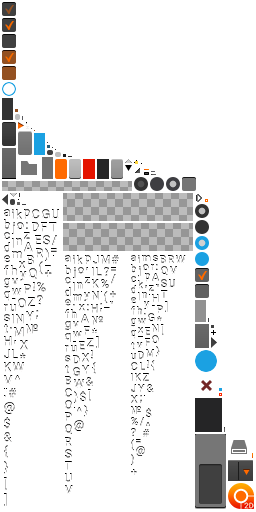
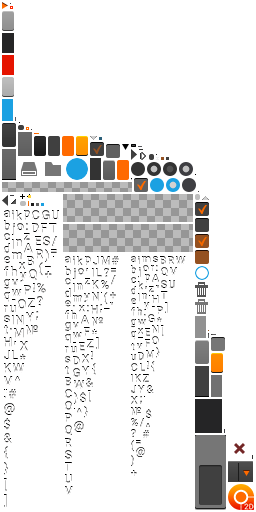
sub menu bar fixing

diff --git a/src/com/uwsoft/editor/mvc/view/ui/box/UIResolutionBox.java b/src/com/uwsoft/editor/mvc/view/ui/box/UIResolutionBox.java
@@ -21,9 +21,12 @@ package com.uwsoft.editor.mvc.view.ui.box;
 import com.badlogic.gdx.scenes.scene2d.Actor;
 import com.badlogic.gdx.scenes.scene2d.InputEvent;
 import com.badlogic.gdx.scenes.scene2d.ui.SelectBox;
+import com.badlogic.gdx.scenes.scene2d.ui.Skin;
 import com.badlogic.gdx.scenes.scene2d.utils.ChangeListener;
 import com.badlogic.gdx.scenes.scene2d.utils.ClickListener;
 import com.badlogic.gdx.utils.Array;
+import com.kotcrab.vis.ui.VisUI;
+import com.kotcrab.vis.ui.widget.VisImageButton;
 import com.kotcrab.vis.ui.widget.VisSelectBox;
 import com.kotcrab.vis.ui.widget.VisTable;
 import com.kotcrab.vis.ui.widget.VisTextButton;
@@ -41,6 +44,7 @@ public class UIResolutionBox extends VisTable {
     //    private final String currentResolutionName;
     private final Overlap2DFacade facade;
     private final ResolutionManager resolutionManager;
+    private final Skin skin;
     private VisSelectBox<ResolutionEntryVO> visSelectBox;
 //    private final ProjectManager projectManager;
 
@@ -49,12 +53,12 @@ public class UIResolutionBox extends VisTable {
     private SelectBox<String> dropdown;
 
     private ProjectInfoVO projectInfoVO;
-    private VisTextButton deleteBtn;
+    private VisImageButton deleteBtn;
 
     public UIResolutionBox() {
         facade = Overlap2DFacade.getInstance();
         resolutionManager = facade.retrieveProxy(ResolutionManager.NAME);
-
+        skin = VisUI.getSkin();
         init();
     }
 
@@ -72,14 +76,18 @@ public class UIResolutionBox extends VisTable {
         resolutionEntryVOs.add(resolutionManager.getOriginalResolution());
         resolutionEntryVOs.addAll(resolutionManager.getResolutions());
         visSelectBox.setItems(resolutionEntryVOs);
-        add("Current Resolution : ").padRight(5);
-        add(visSelectBox).padRight(5);
-        deleteBtn = new VisTextButton("Delete");
+        add("Resolution : ").padRight(5);
+        add(visSelectBox).padRight(11);
+        VisImageButton.VisImageButtonStyle visImageButtonStyle = skin.get("dark", VisImageButton.VisImageButtonStyle.class);
+        visImageButtonStyle.imageUp = skin.getDrawable("icon-trash");
+        visImageButtonStyle.imageDisabled = skin.getDrawable("icon-trash-disabled");
+        deleteBtn = new VisImageButton("dark");
+        deleteBtn.setStyle(visImageButtonStyle);
         deleteBtn.addListener(new UIResolutionBoxButtonClickListener(DELETE_RESOLUTION_BTN_CLICKED));
-        add(deleteBtn).padRight(5);
-        VisTextButton repackBtn = new VisTextButton("Repack");
+        add(deleteBtn).padRight(11).height(25);
+        VisTextButton repackBtn = new VisTextButton("Repack", "orange");
         repackBtn.addListener(new UIResolutionBoxButtonClickListener(REPACK_BTN_CLICKED));
-        add(repackBtn).padRight(5);
+        add(repackBtn).padRight(5).width(93).height(25);
         setCurrentResolution(resolutionManager.currentResolutionName);
         visSelectBox.addListener(new ResolutionChangeListener());
     }

diff --git a/src/com/uwsoft/editor/mvc/view/ui/UISubmenuBar.java b/src/com/uwsoft/editor/mvc/view/ui/UISubmenuBar.java
@@ -34,7 +34,7 @@ public class UISubmenuBar extends VisTable {
         Skin skin = VisUI.getSkin();
         facade = Overlap2DFacade.getInstance();
         //debug();
-        setBackground(skin.getDrawable("window-bg"));
+        setBackground(skin.getDrawable("sub-menu-bg"));
 
         UICompositeHierarchyMediator uiCompositeHierarchyMediator = facade.retrieveMediator(UICompositeHierarchyMediator.NAME);
         UICompositeHierarchy uiCompositeHierarchy = uiCompositeHierarchyMediator.getViewComponent();
